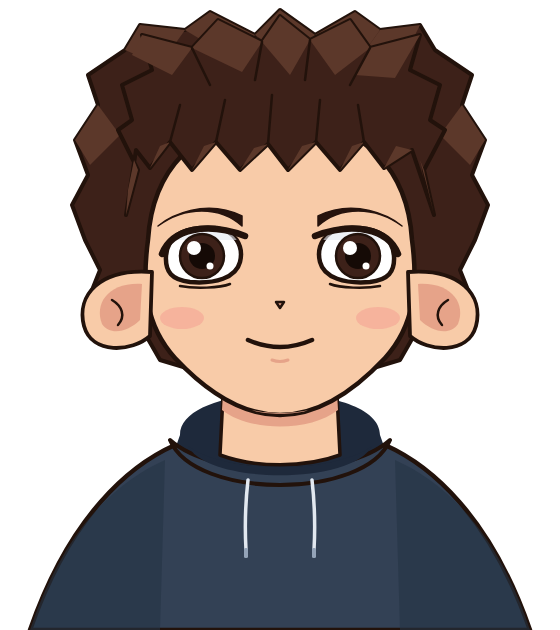
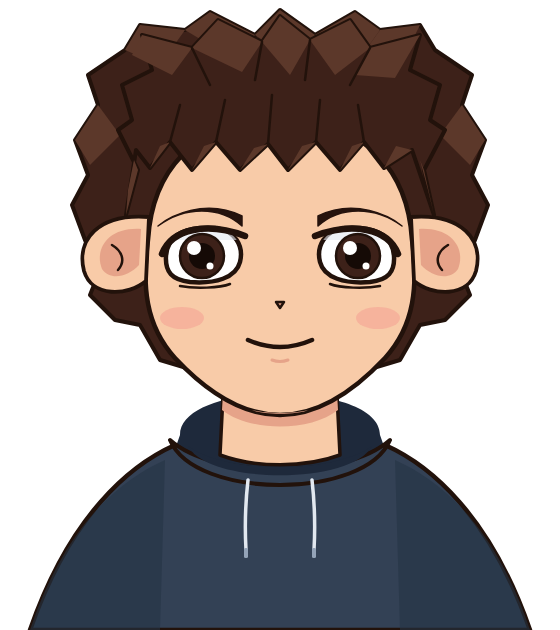
fix(boy_a): align ears anatomically to eye-nose level and refresh staging

Changed region(s): [[0.1214, 0.3317, 0.2732, 0.573], [0.7286, 0.3317, 0.8804, 0.573]]

diff --git a/assets2d/characters/boy_a/staging/index.html b/assets2d/characters/boy_a/staging/index.html
@@ -163,17 +163,17 @@
     <path d="M 252 410 C 265 414, 295 414, 308 410 C 298 415, 262 415, 252 410 Z" fill="#e6a389"/>
   </g>
 
-  <!-- 6. EARS (Left & Right with 2-Tone Inner Shadows) -->
+  <!-- 6. EARS (Left & Right with 2-Tone Inner Shadows, anatomically aligned) -->
   <g id="layer-ears">
     <g id="ear-left">
-      <path d="M 152 272 C 100 268, 76 295, 84 326 C 92 355, 132 352, 150 336 Z" fill="#f8cba8" stroke="#22120b" stroke-width="3.8" stroke-linejoin="round"/>
-      <path d="M 142 284 C 108 282, 94 304, 102 324 C 110 336, 128 332, 140 320 Z" fill="#e6a389"/>
-      <path d="M 112 300 C 122 306, 126 316, 118 325" fill="none" stroke="#22120b" stroke-width="2.5" stroke-linecap="round"/>
+      <path d="M 149 217 C 98 213, 76 240, 84 271 C 92 298, 128 296, 146 281 Z" fill="#f8cba8" stroke="#22120b" stroke-width="3.8" stroke-linejoin="round"/>
+      <path d="M 141 229 C 108 227, 94 249, 102 269 C 110 281, 128 277, 139 265 Z" fill="#e6a389"/>
+      <path d="M 112 245 C 122 251, 126 261, 118 270" fill="none" stroke="#22120b" stroke-width="2.5" stroke-linecap="round"/>
     </g>
     <g id="ear-right">
-      <path d="M 408 272 C 460 268, 484 295, 476 326 C 468 355, 428 352, 410 336 Z" fill="#f8cba8" stroke="#22120b" stroke-width="3.8" stroke-linejoin="round"/>
-      <path d="M 418 284 C 452 282, 466 304, 458 324 C 450 336, 432 332, 420 320 Z" fill="#e6a389"/>
-      <path d="M 448 300 C 438 306, 434 316, 442 325" fill="none" stroke="#22120b" stroke-width="2.5" stroke-linecap="round"/>
+      <path d="M 411 217 C 462 213, 484 240, 476 271 C 468 298, 432 296, 414 281 Z" fill="#f8cba8" stroke="#22120b" stroke-width="3.8" stroke-linejoin="round"/>
+      <path d="M 419 229 C 452 227, 466 249, 458 269 C 450 281, 432 277, 421 265 Z" fill="#e6a389"/>
+      <path d="M 448 245 C 438 251, 434 261, 442 270" fill="none" stroke="#22120b" stroke-width="2.5" stroke-linecap="round"/>
     </g>
   </g>
 

diff --git a/docs/FEATURES.md b/docs/FEATURES.md
@@ -155,13 +155,13 @@ Comprehensive index of commands, swappable plugins, art styles, configuration, a
 ## 2D Layered Character System (`core/character2d`, `core/character_pack`)
 
 ### `presenter` (Whiteboard Presenter Character Pack)
-- **Description**: Modular 2D layered SVG character pack extracted from whiteboard inline markup. Features swappable arm rigs (`idle`, `wave`, `point`, `explain`, `thumbs_up`, `shrug`), 4 mouth states (`closed`, `slightly_open`, `wide_open`, `round_o` with legacy `open` alias), and eye states (`open`, `blink`, `screen_left`, `screen_right`).
+- **Description**: Modular 2D layered SVG character pack extracted from whiteboard inline markup. Features a continuous unified hairline with elegant side-swept bangs clearing eyebrows, seamless sideburns, aligned golden rim sidelight, swappable arm rigs (`idle`, `wave`, `point`, `explain`, `thumbs_up`, `shrug`), 4 mouth states (`closed`, `slightly_open`, `wide_open`, `round_o` with legacy `open` alias), and eye states (`open`, `blink`, `screen_left`, `screen_right`).
 - **Files**: `src/toonshorts/core/character_pack.py`, `src/toonshorts/core/character2d.py`, `assets2d/characters/presenter/character.svg`, `assets2d/characters/presenter/manifest.json`
 - **Capabilities**: Full manifest compliance, 0 validation errors, swappable arm gesture rigs, eye blinking, speech-synced lip sync, and left/right slot rendering.
 - **Tests**: `tests/unit/test_character_pack.py`, `tests/unit/test_animejs.py`
 
 ### `boy_a` (2D Layered SVG Character Pack)
-- **Description**: Modular 2D layered SVG character pack with swappable eye states (`open`, `blink`, `screen_left`, `screen_right`) and mouth states (`closed`, `slightly_open`, `wide_open`, `round_o`) preserving identical head, hair (merged 2-tone facets), and eyebrows geometry. Includes simple neck and plain hoodie shoulders.
+- **Description**: Modular 2D layered SVG character pack with anatomically and stylistically aligned ears ($y=215\dots288$), anchored head base, synchronized hair-back framing, swappable eye states (`open`, `blink`, `screen_left`, `screen_right`), and mouth states (`closed`, `slightly_open`, `wide_open`, `round_o`) preserving identical head, hair (merged 2-tone facets), and eyebrows geometry. Includes simple neck and plain hoodie shoulders.
 - **Files**: `src/toonshorts/core/character_pack.py`, `src/toonshorts/core/character2d.py`, `assets2d/characters/boy_a/character.svg`, `assets2d/characters/boy_a/manifest.json`
 - **Capabilities**: Safe loading, path traversal prevention, strict XML/SVG safety checks (forbids `<script>`, event handlers, external entities, and gradients), file size <= 200 KB, state-switching SVG generation, PNG rendering via Playwright, and test staging workbench (`staging/index.html` and 4x2 contact sheet).
 - **Tests**: `tests/unit/test_character_pack.py`, `tests/unit/test_character2d.py`

diff --git a/docs/CHANGELOG.md b/docs/CHANGELOG.md
@@ -1,5 +1,6 @@
 # Changelog
 
+- 2026-10-22: Refined character packs: unified Presenter hairline into smooth continuous silhouette clearing eyebrows with seamless temple sideburns and golden rim sidelight; realigned Boy A ears upward (~55px) to natural eye/nose height with tight head base anchoring and synchronized hair-back framing.
 - 2026-10-22: Integrated 2D character packs into whiteboard renderer with left/right slots, mirrored right placement, speech-driven mouth sync for active speaker, idle blinks/glances for listeners, and gesture resolution with warnings.
 - 2026-10-22: Extracted whiteboard presenter into modular character pack with swappable arm rigs, 4 mouth states, and eye look/blink states.
 - 2026-10-22: Standardized character pack manifest schema (anchors, safe_bounding_box, default_slot, scale, allowed_gestures) and upgraded SVG security to element allowlist with strict URI/event safety.
